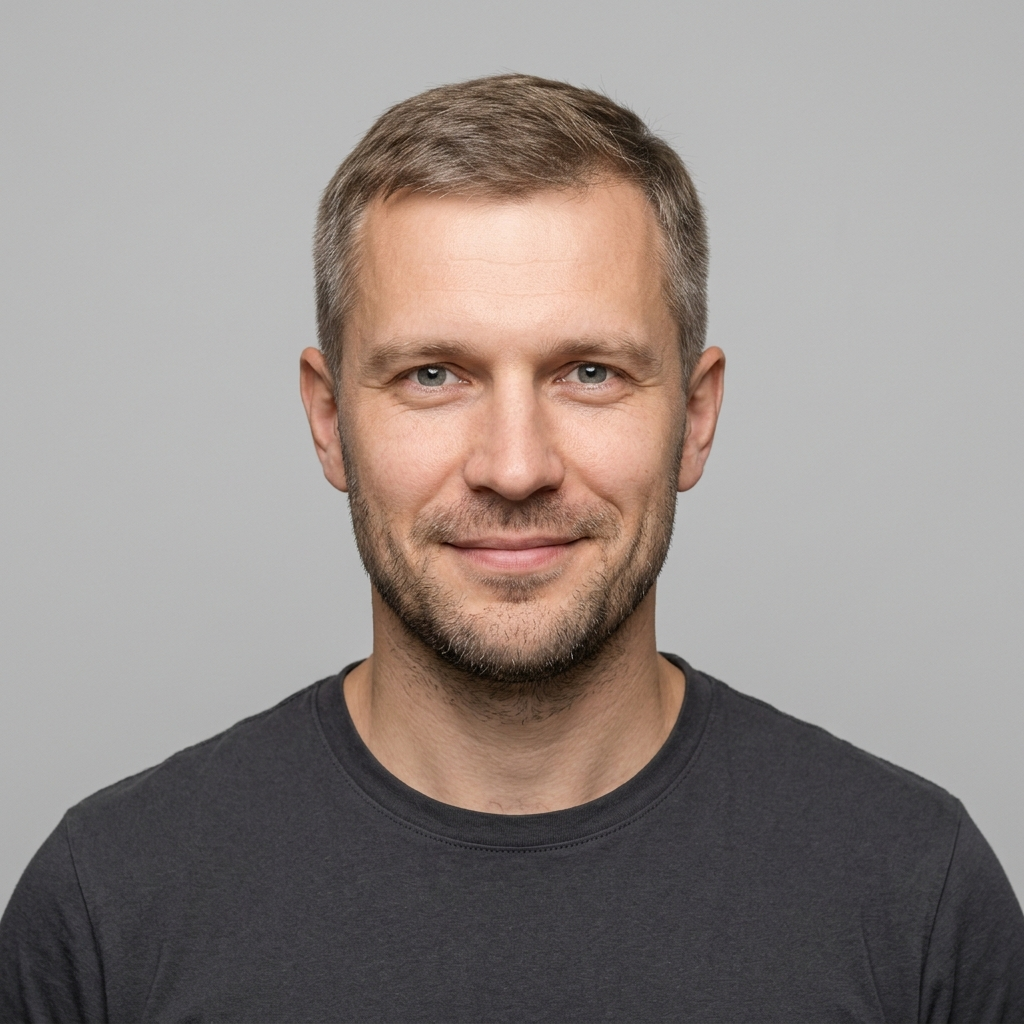
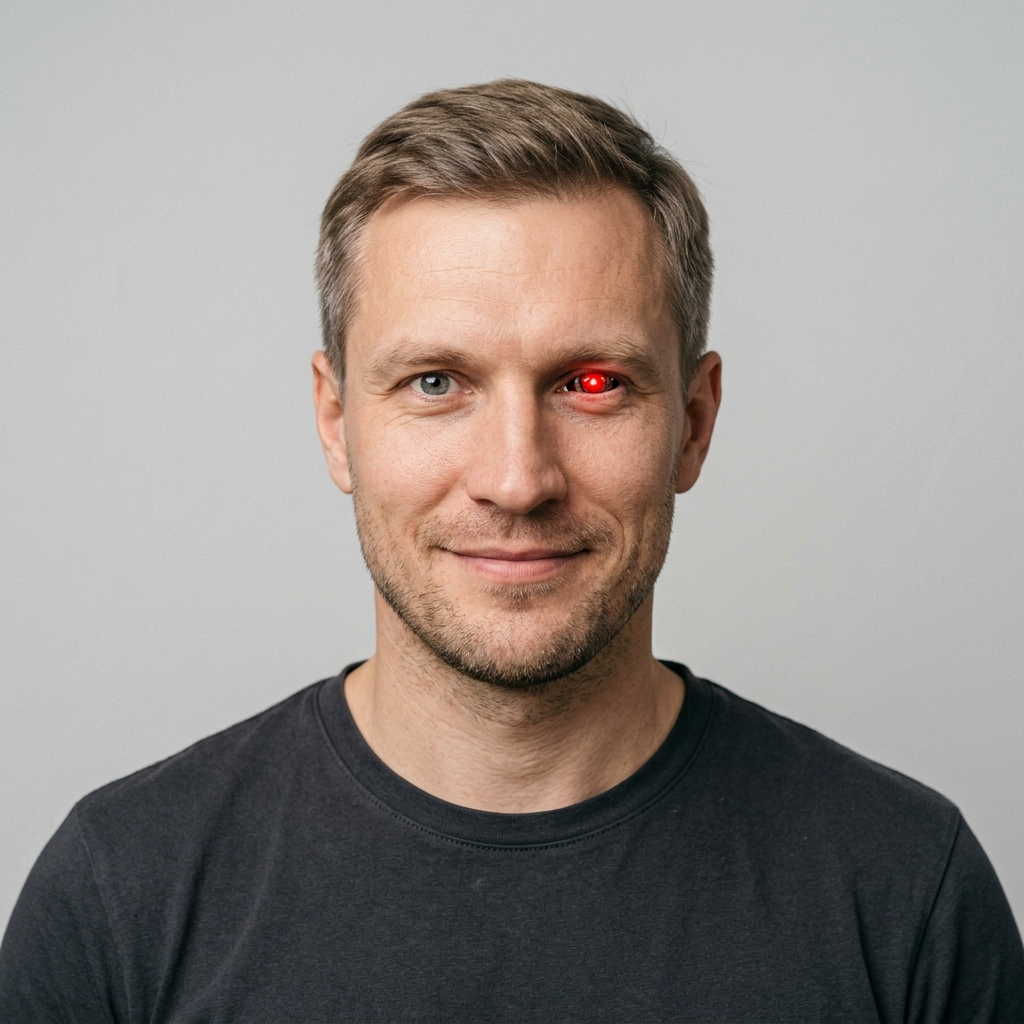
Красный глаз терминатора в паспорте

diff --git a/passport.html b/passport.html
@@ -442,7 +442,7 @@
 
       <div class="photo-area">
         <div class="photo-frame">
-          <img src="passport_photo.png" style="width:100%;height:100%;object-fit:cover;filter:grayscale(100%);" alt="Фото">
+          <img src="passport_photo.png" style="width:100%;height:100%;object-fit:cover;" alt="Фото">
           <div class="photo-seal">МВД<br>РОССИИ</div>
         </div>
       </div>